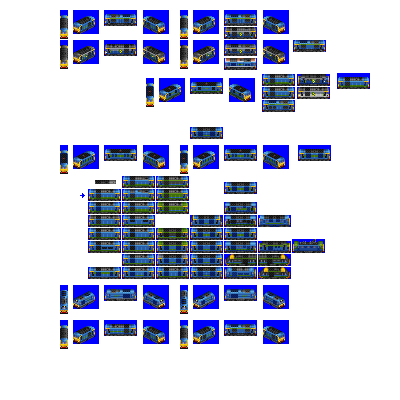
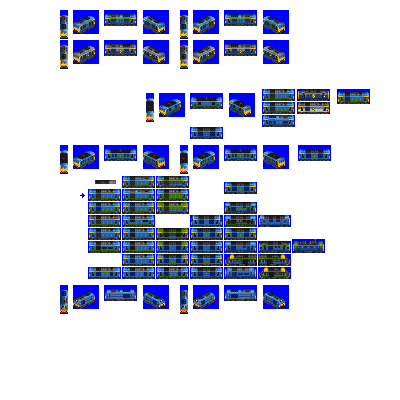
Change: sprites complete for Stentor

diff --git a/src/vehicles/stentor.py b/src/vehicles/stentor.py
@@ -17,7 +17,7 @@ def main(roster_id):
         gen=5,
         fixed_run_cost_points=210,  # unrealism: run cost nerf for being so high-powered
         alternative_cc_livery="RAILFREIGHT_TRIPLE_GREY",
-        sprites_complete=False,
+        sprites_complete=True,
     )
 
     consist.add_unit(
@@ -28,7 +28,7 @@ def main(roster_id):
         spriterow_num=0,
     )
 
-    consist.description = """"""
-    consist.foamer_facts = """"""
+    consist.description = """This one is loud, and packed with technology."""
+    consist.foamer_facts = """BR Class 60 design mockups"""
 
     return consist
